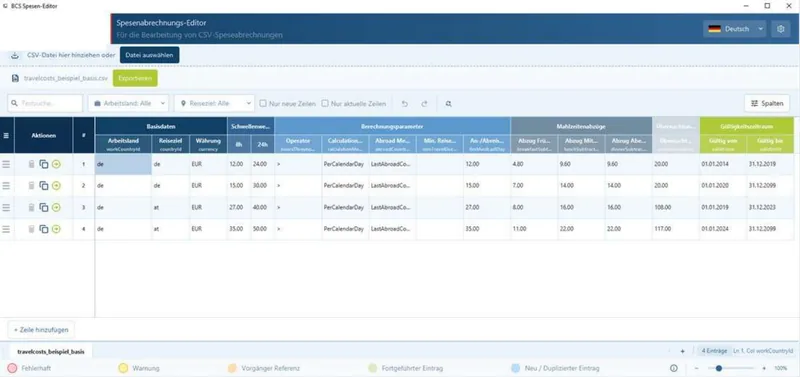
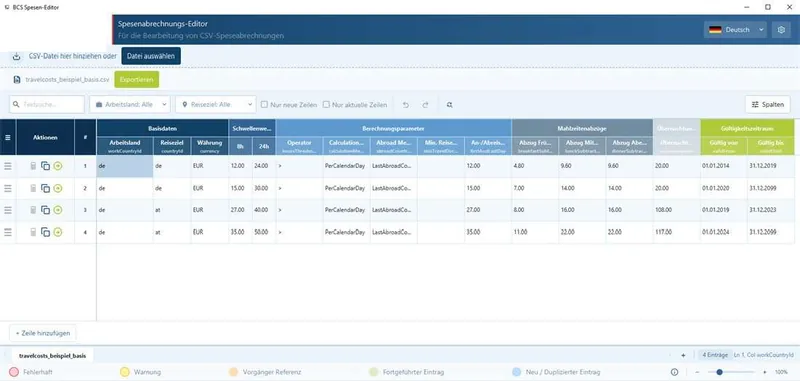
Kaiju-Bilder ergaenzt, Bildreihen zentriert, Hauptfenster nativ
HAUPTFENSTER: nicht schaerfer, aber ehrlicher. Im PDF liegt der Screenshot
als sieben Streifen zu je 1101 px Breite -- das ist die native Aufloesung.
Die bisherige Datei hatte 1410 px, war also um 28 Prozent hochgerechnet.
Jetzt aus den Originalstreifen zusammengesetzt: 1101x524, ohne
Interpolation. Mehr Detail gibt das PDF nicht her.

KAIJU: zwei neue Aufnahmen aus dem laufenden Spiel. kaiju-ingame als
Hauptbild ueber der Reihe, kaiju-pausemenu als drittes Bild neben
Titelbild und Weltkarte. Beide mit Beschreibung in beiden Sprachen.
Die Dateien lagen in dist/media und waren damit beim naechsten Build weg;
sie liegen jetzt in src/assets/media, wo tools/bilder.mjs sie findet.

ZENTRIERUNG: die Bildreihe hatte auto-fit und damit auf breiten Schirmen
Platz fuer vier Spalten. Die drei kleinen Aufnahmen belegten davon nur die
ersten drei und standen deshalb linksbuendig unter dem breiten Bild. Ab
52rem jetzt feste Dreierteilung.

Dazu eine Regel, die das eigentliche Problem loest: kein Bild wird ueber
seine native Aufloesung hinaus vergroessert. Die Begrenzung sitzt auf der
figure, damit die Bildunterschrift mitzentriert und buendig bleibt.

diff --git a/src/data/inhalt.ts b/src/data/inhalt.ts
@@ -366,8 +366,10 @@ export const projekte = [
       },
     },
     bilder: [
+      { datei: 'kaiju-ingame', breit: true, bu: { de: 'Spielansicht von oben: die Spielfigur am Strand, eine Nichtspielerfigur davor, links ein Höhleneingang. Oben links der Hinweis auf das Pausemenü, an den Rändern die Zähler für Schlüssel, Geld und Tränke.', en: 'Top-down gameplay: the player on the beach, a non-player character ahead, a cave entrance to the left. Top left the hint for the pause menu, around the edges the counters for keys, money and potions.' } },
       { datei: 'kaiju-titelbild', bu: { de: 'Titelbildschirm mit Menüführung über die Zustände Starten, Neues Spiel, Laden und Beenden. Die Auswahl läuft vollständig über den selbst geschriebenen Zustandsautomaten.', en: 'Title screen with menu navigation across the start, new game, load and quit states. Selection runs entirely through the hand-written state machine.' } },
       { datei: 'kaiju-weltkarte', bu: { de: 'Entwurf der Welt mit Dorf, See, Höhle und Bossarena. Das Raster liegt als Textdatei im Projekt und wird beim Start in Kacheln übersetzt.', en: 'World design with village, lake, cave and boss arena. The grid lives as a text file in the project and is translated into tiles at startup.' } },
+      { datei: 'kaiju-pausemenu', bu: { de: 'Pausemenü über der abgedunkelten Spielwelt — einer der elf Spielzustände. Weiterspielen, Speichern und Hauptmenü stehen zur Wahl, darunter die Tastenbelegung für Bewegen, Heilen und Angreifen.', en: 'Pause menu over the dimmed game world — one of the eleven game states. Resume, save and main menu, with the key bindings for moving, healing and attacking below.' } },
       { datei: 'kaiju-sprites', breit: true, bu: { de: 'Spielfigur mit Lauf- und Angriffsbildern, Gegner, vier Nichtspielerfiguren und Tränke. Die Grafiken stammen vom Team, Animation, Kollision und Spiellogik dahinter von mir.', en: 'Player with walk and attack frames, enemies, four non-player characters and potions. The artwork is by the team; the animation, collision and game logic behind it are mine.' } },
     ],
     einordnung: {

diff --git a/src/styles/protokoll.css b/src/styles/protokoll.css
@@ -342,12 +342,20 @@ h1, h2, h3, h4 { margin: 0; font-weight: 600; text-wrap: balance; line-height: 1
   color: var(--tinte-2);
 }
 
-figure { margin: 0; }
+/* Kein Bild wird je über seine native Auflösung hinaus gezogen. Ein 575 px
+   breiter Screenshot auf 1080 px gestreckt wird nicht größer, sondern matschig.
+   --nativ setzt die Komponente aus dem Bildmanifest; die Begrenzung sitzt auf
+   der figure, damit die Bildunterschrift mitzentriert und bündig bleibt. */
+figure { margin: 0; max-width: min(100%, var(--nativ, 100%)); margin-inline: auto; }
 figure img { display: block; width: 100%; height: auto; border: var(--spur) solid var(--haar-stark); background: #fff; }
 figcaption { margin-top: 0.6rem; font-size: 0.8125rem; color: var(--tinte-3); max-width: 60ch; }
 
 .bildreihe { display: grid; grid-template-columns: repeat(auto-fit, minmax(min(16rem, 100%), 1fr)); gap: 1.5rem; }
-/* Sehr breite Aufnahmen (Hauptfenster, Sprite-Reihe) über die volle Spur. */
+/* Feste Dreierteilung, sobald Platz ist. Mit auto-fit passten hier vier
+   Spalten hinein, die drei kleinen Aufnahmen belegten davon nur die ersten
+   drei -- und standen dadurch linksbündig unter dem breiten Bild. */
+@media (min-width: 52rem) { .bildreihe { grid-template-columns: repeat(3, 1fr); } }
+/* Führende und sehr breite Aufnahmen über die volle Spur, dort zentriert. */
 .bildreihe figure[data-breit] { grid-column: 1 / -1; }
 
 /* Mängelliste: der einzige Ort, an dem Rot flächig auftritt. */
